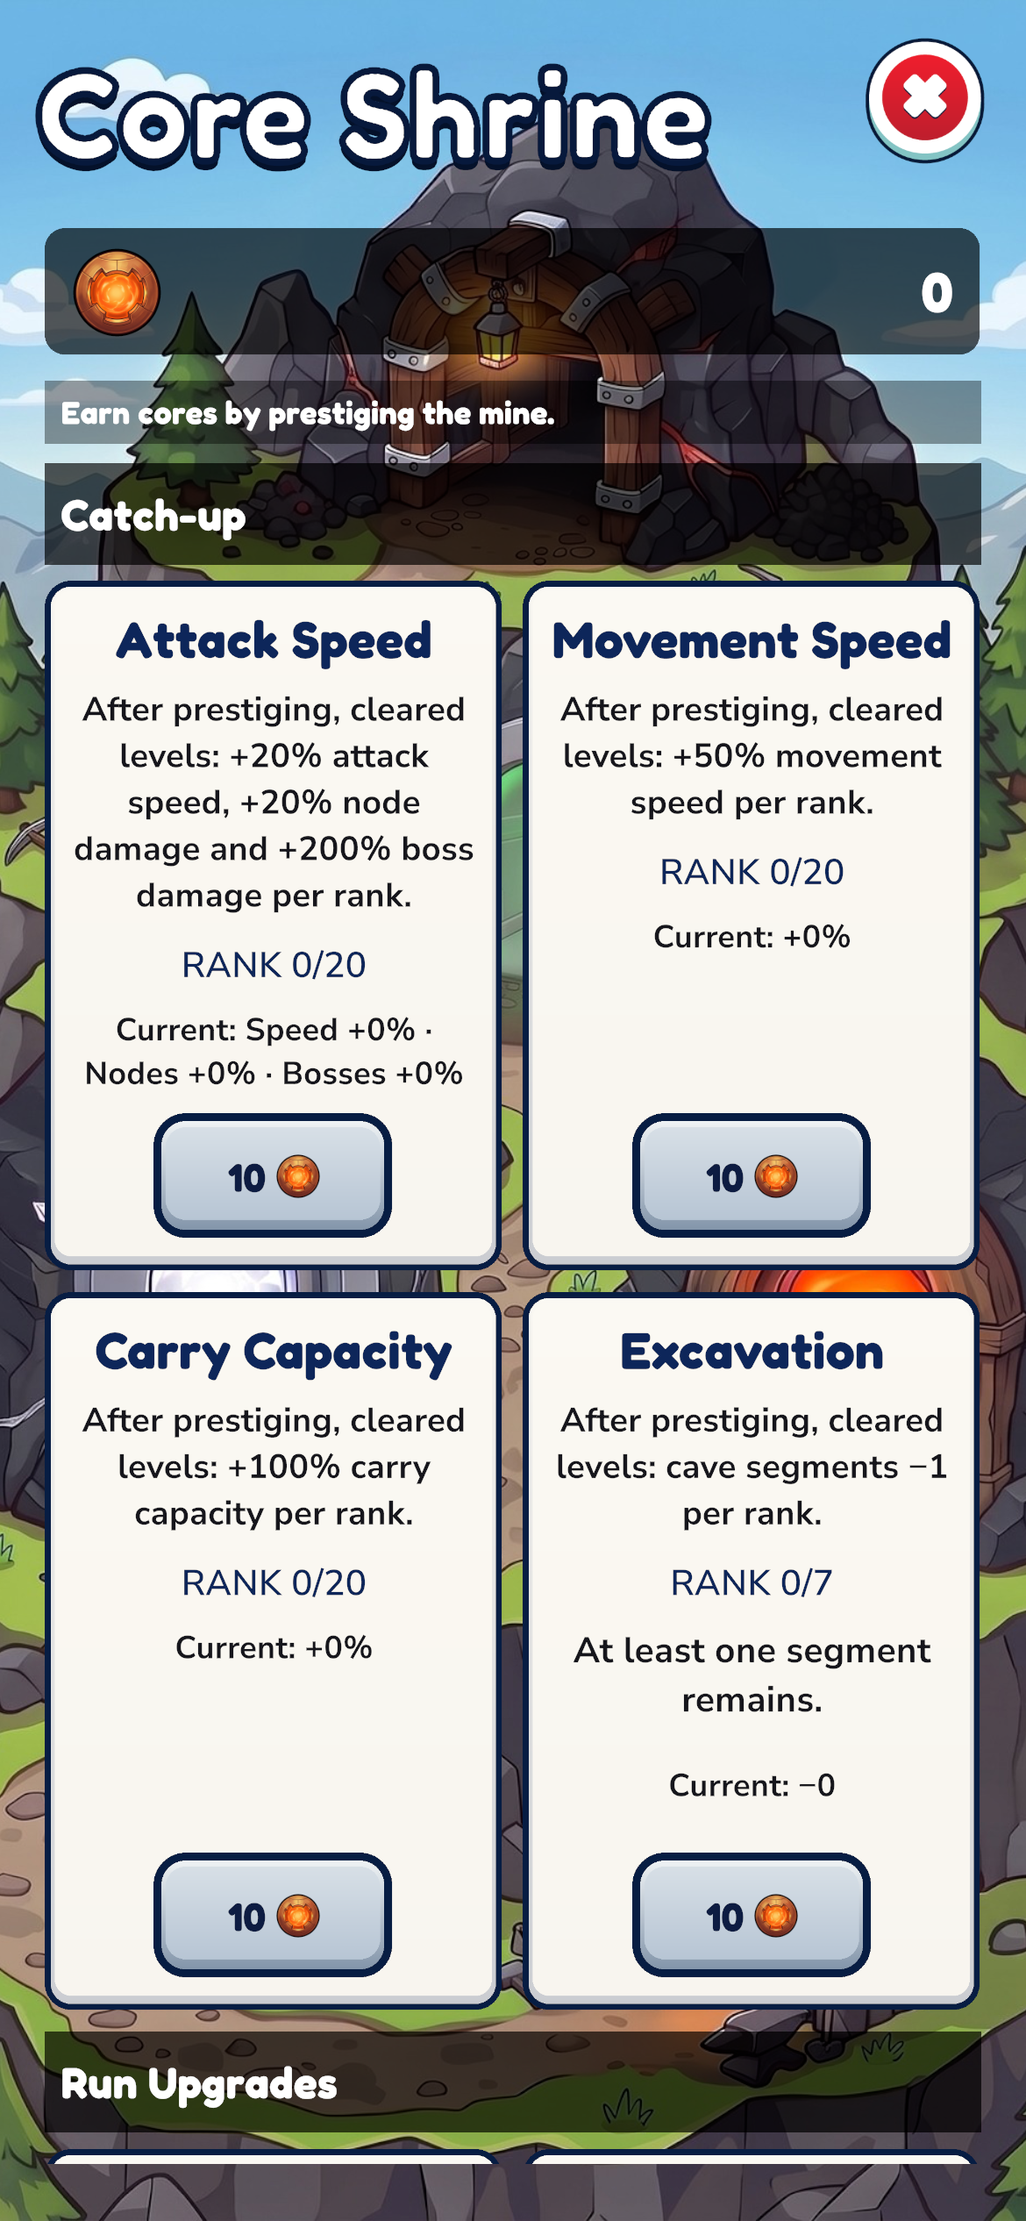
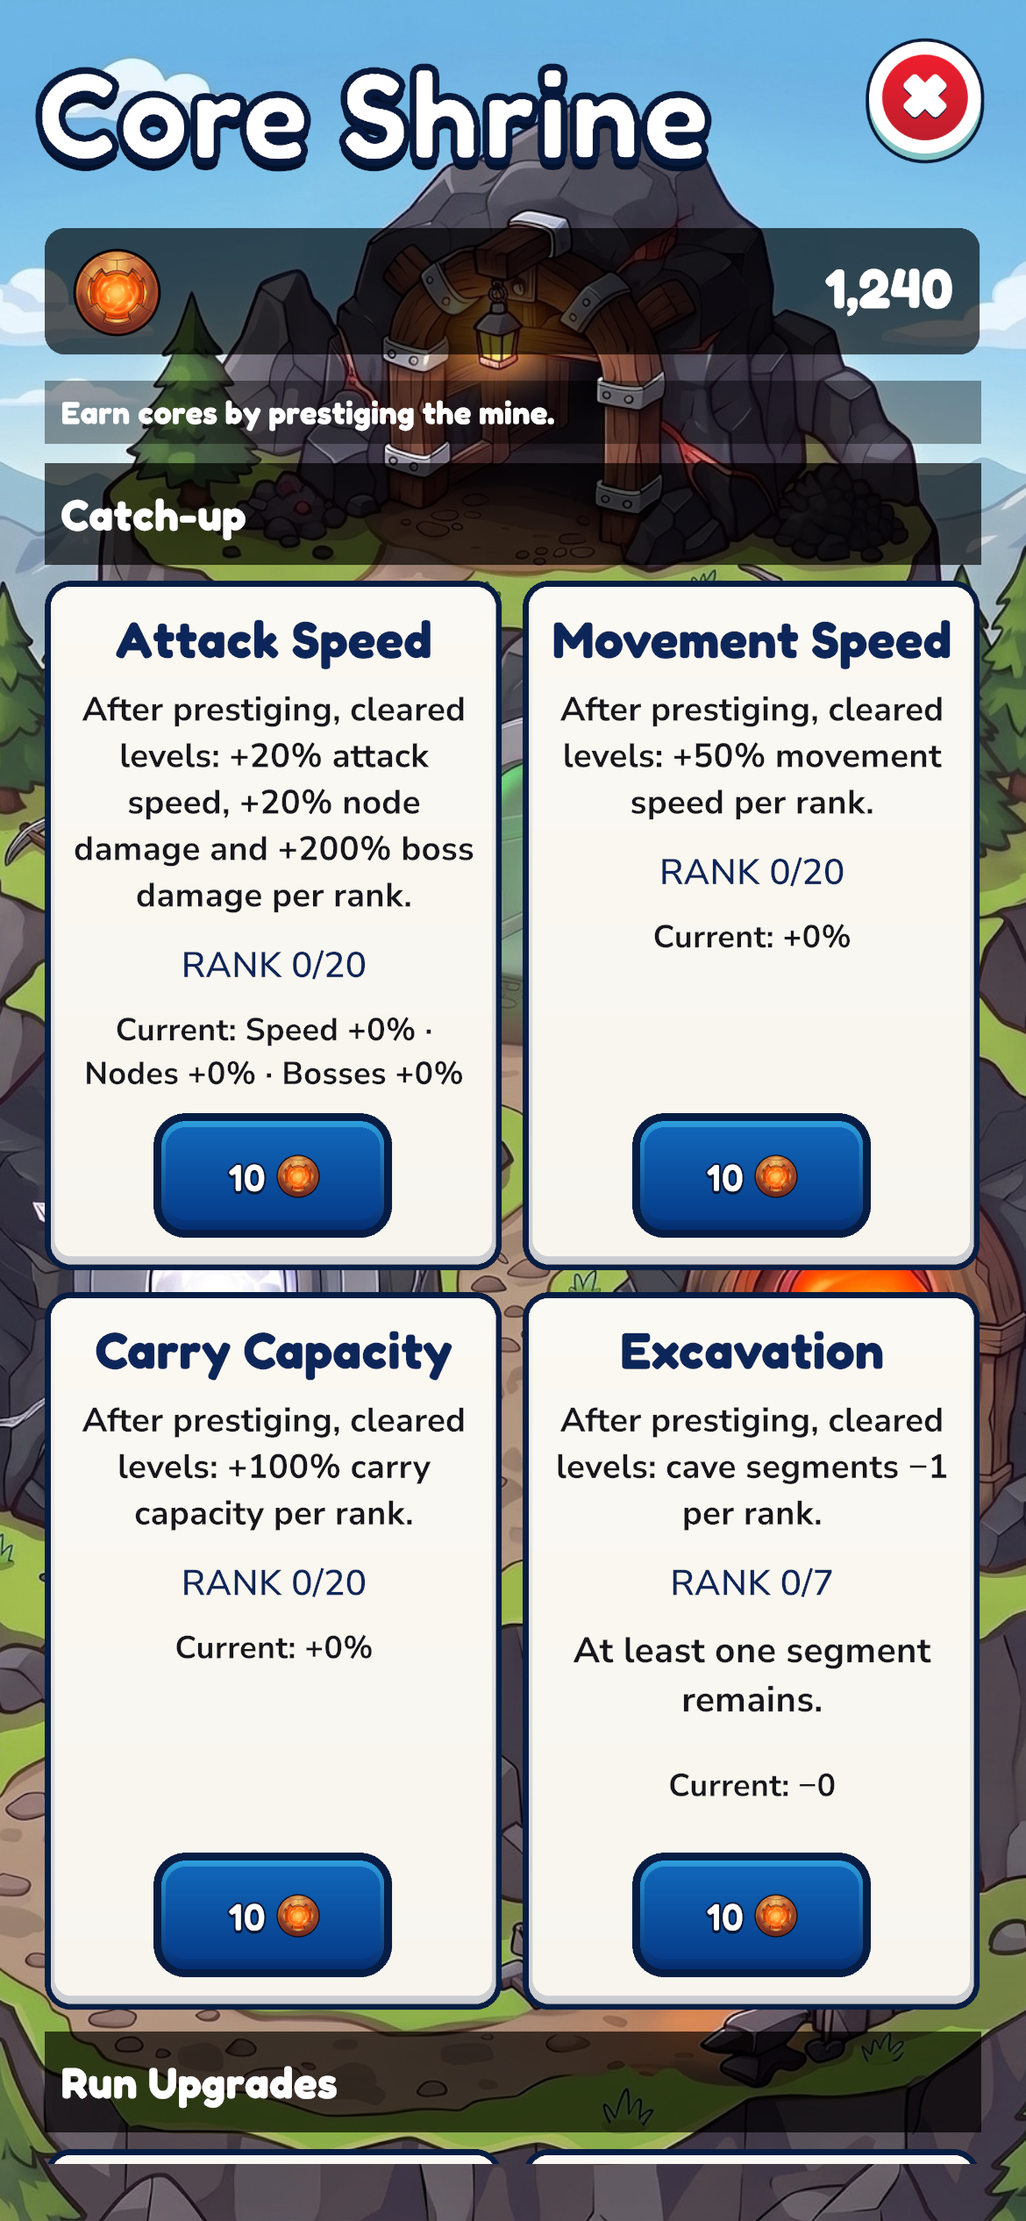
Refresh gameplay screenshots and expand Privacy and Terms

diff --git a/privacy.html b/privacy.html
@@ -2,21 +2,45 @@
 <html lang="en"><head><meta charset="utf-8"><meta name="viewport" content="width=device-width, initial-scale=1"><meta name="description" content="Privacy information for Mining Kingdom Idle."><link rel="stylesheet" href="style.css"><title>Privacy policy — Mining Kingdom Idle</title></head><body>
 <header class="site-header wrap"><a class="brand" href="index.html">Mining Kingdom Idle</a><nav aria-label="Main navigation"><a href="index.html">Game</a><a href="support.html">Support</a><a href="privacy.html" aria-current="page">Privacy</a><a href="terms.html">Terms</a></nav></header>
 <main id="main" class="document wrap">
-<h1>Privacy policy</h1><p class="page-meta">Updated 16 October 2026 · rsvngames<br>Contact: <a href="mailto:support@miningkingdomidle.com">support@miningkingdomidle.com</a></p>
-<p>This page explains the data used by Mining Kingdom Idle and this website.</p>
-<h2>Saved progress</h2><p>The game stores your progress, settings and purchase records on your device.</p>
-<p>Cloud backup is off by default. If you turn it on, your save is stored through Google Play Games on Android or GameKit/iCloud on Apple devices. There is no separate publisher login. Android and Apple saves do not transfer between platforms.</p>
-<p>Turning cloud backup off does not delete existing copies. The game can request deletion through your platform, though another device or a pending upload may create a copy again. Choosing another save replaces your existing progress. Saves are not combined.</p>
-<h2>Purchases</h2><p>Apple or Google handles payment. The game and Unity IAP use receipts, transaction identifiers and purchase status to deliver purchases and restore permanent benefits. We do not receive full payment card details.</p>
-<h2>Ads and game services</h2><p>Rewarded videos use Google Mobile Ads. Google’s User Messaging Platform handles applicable consent messages and privacy options. These services can receive device or advertising identifiers, IP-derived approximate location, ad interactions and diagnostics.</p>
-<p>Ad behavior depends on the service configuration, privacy choices and platform permissions. When Google makes privacy options available, use <strong>Ad privacy choices</strong> in the game’s Settings.</p>
+<h1>Privacy policy</h1>
+<p class="page-meta">Updated 16 October 2026<br>Privacy contact: Developer, rsvngames — <a href="mailto:support@miningkingdomidle.com">support@miningkingdomidle.com</a></p>
+<h2>Saved progress and cloud backup</h2>
+<p>The game stores your progress, settings and purchase records on your device so you can continue playing and retain purchased benefits.</p>
+<p>Cloud backup is optional and off by default. If you enable it, your save is stored through Google Play Games on Android or GameKit/iCloud on Apple devices. There is no separate rsvngames account. Android and Apple saves do not transfer between platforms.</p>
+<p>Choosing another save replaces your existing progress. Saves are not combined, and a cloud copy may be behind your latest local progress.</p>
+<p>Turning cloud backup off does not delete existing cloud copies. The game can request deletion through your platform, although another device or a pending upload may create a copy again.</p>
+<h2>Purchases</h2>
+<p>Apple or Google processes payments. The game and Unity IAP use purchase receipts, transaction identifiers and purchase status to deliver purchases, record ownership and restore eligible permanent benefits.</p>
+<p>We do not receive your full payment card details. The relevant store handles payment information under its own policies.</p>
+<h2>Ads and game services</h2>
+<p>Rewarded videos use Google Mobile Ads. Google’s User Messaging Platform handles applicable consent messages and advertising privacy choices.</p>
+<p>These services can receive device information, advertising identifiers, IP-derived approximate location, ad interactions and diagnostics to provide and measure advertising. The information processed depends on the service configuration, your privacy choices and platform permissions.</p>
+<p>When Google makes privacy options available, you can review your choices through <strong>Ad privacy choices</strong> in the game’s Settings.</p>
+<p>When Remove Ads is active, the game does not start new rewarded-ad requests. This does not delete information already held by providers or disable the other processing described in this policy.</p>
 <p>Unity supplies the game engine and purchase integration. Its services can process installation, device, session and transaction information. Optional Unity Analytics collection and leaderboard score sharing are disabled in this version.</p>
-<h2>Website and support</h2><p>GitHub Pages hosts this website and logs visitor IP addresses for security. The game also contacts this site to check connectivity before rewarded videos. The site has no tracking scripts, sign-up form or automatic video embeds.</p>
-<p>If you email support, your address, message and attachments are handled through the support mailbox to answer your request. Do not send passwords, payment card details or private save files.</p>
-<h2>Retention and requests</h2><p>Local saves remain until removed or replaced through the game or operating system. A gameplay reset keeps permanent purchase ownership and daily-use records. It does not delete your cloud backup. Stores, cloud and SDK providers apply their own storage and retention policies.</p>
-<p>Contact <a href="mailto:support@miningkingdomidle.com">support@miningkingdomidle.com</a> with privacy questions or requests about your information. Depending on your location, rights may include access, correction, deletion or objection. Requests for provider-held records may require that provider’s tools and identifying information.</p>
-<h2>Service policies</h2><ul><li><a href="https://www.apple.com/legal/privacy/">Apple</a></li><li><a href="https://policies.google.com/privacy">Google</a></li><li><a href="https://unity.com/legal/game-player-and-app-user-privacy-policy">Unity</a></li><li><a href="https://docs.github.com/en/site-policy/privacy-policies/github-general-privacy-statement">GitHub</a></li></ul>
-<p>We will update this page if the game’s services or data handling change.</p>
+<h2>Website and support</h2>
+<p>GitHub Pages hosts this website and logs visitor IP addresses for security. The game also contacts this website to check connectivity before showing a rewarded video.</p>
+<p>The website has no tracking scripts, registration form or automatic video embeds.</p>
+<p>If you contact support, your email address, message and any attachments are processed through the email services used to receive and answer your request. We use this information to investigate the issue and respond.</p>
+<p>Please do not send passwords, login codes, payment card details or private save files.</p>
+<h2>Service providers and processing locations</h2>
+<p>The providers described above process information under their own privacy policies. Depending on the service, information may be processed outside your province or country and may be subject to the laws of that location.</p>
+<p>You can read their policies here:</p>
+<ul><li><a href="https://www.apple.com/legal/privacy/">Apple</a></li><li><a href="https://policies.google.com/privacy">Google</a></li><li><a href="https://unity.com/legal/game-player-and-app-user-privacy-policy">Unity</a></li><li><a href="https://docs.github.com/en/site-policy/privacy-policies/github-general-privacy-statement">GitHub</a></li></ul>
+<h2>Retention</h2>
+<p>Local saves remain until removed or replaced through the game or operating system. A gameplay reset keeps permanent purchase ownership and daily-use records. It does not delete your cloud backup.</p>
+<p>We retain information under our control for as long as reasonably needed for the purposes described in this policy, including handling support requests, resolving related issues and meeting legal obligations. When that information is no longer needed, we delete it or remove identifying details, subject to applicable retention requirements.</p>
+<p>Stores and other providers may retain records they control independently under their own policies and legal obligations.</p>
+<h2>Your choices and privacy requests</h2>
+<p>The cloud-backup and advertising controls described above let you manage those optional features.</p>
+<p>You can contact <a href="mailto:support@miningkingdomidle.com">support@miningkingdomidle.com</a> to ask about information under our control, request access or correction, or raise a privacy concern. Depending on applicable law, you may also request deletion, withdraw consent or exercise other privacy rights.</p>
+<p>Please describe your request clearly. We may ask for information reasonably needed to confirm your identity and locate the relevant records. We will respond within the time required by applicable law and explain any applicable limitations or exceptions.</p>
+<p>Some requests concerning information independently controlled by a store or service provider may require that provider’s tools or request process.</p>
+<p>If you are a parent or guardian with a concern about a child’s personal information in connection with the game, contact us so we can review and address the concern.</p>
+<p>You may also raise concerns with the relevant privacy regulator. In British Columbia, this includes the <a href="https://oipc.bc.ca/for-the-public/how-do-i-make-a-complaint/">Office of the Information and Privacy Commissioner for BC</a>.</p>
+<h2>Changes to this policy</h2>
+<p>We may update this policy when the game’s services or information-handling practices change. The revised policy will appear on this page with an updated date.</p>
+<p>Where required by law, we will provide additional notice and obtain consent before introducing new collection, use or disclosure of personal information.</p>
 </main>
 <footer class="site-footer wrap"><nav aria-label="Footer"><a href="support.html">Support</a><a href="privacy.html">Privacy</a><a href="terms.html">Terms</a></nav><p>rsvngames · <a href="mailto:support@miningkingdomidle.com">support@miningkingdomidle.com</a></p></footer>
 </body></html>

diff --git a/terms.html b/terms.html
@@ -2,12 +2,48 @@
 <html lang="en"><head><meta charset="utf-8"><meta name="viewport" content="width=device-width, initial-scale=1"><meta name="description" content="Terms for Mining Kingdom Idle."><link rel="stylesheet" href="style.css"><title>Terms of use — Mining Kingdom Idle</title></head><body>
 <header class="site-header wrap"><a class="brand" href="index.html">Mining Kingdom Idle</a><nav aria-label="Main navigation"><a href="index.html">Game</a><a href="support.html">Support</a><a href="privacy.html">Privacy</a><a href="terms.html" aria-current="page">Terms</a></nav></header>
 <main id="main" class="document wrap">
-<h1>Terms of use</h1><p class="page-meta">Updated 16 October 2026 · rsvngames<br>Contact: <a href="mailto:support@miningkingdomidle.com">support@miningkingdomidle.com</a></p>
-<h2>Using the game</h2><p>Mining Kingdom Idle is provided by rsvngames for personal entertainment. The licence and store terms that apply to your copy remain in effect. On Apple platforms, this includes <a href="https://www.apple.com/legal/internet-services/itunes/dev/stdeula/">Apple’s standard app licence</a> where applicable.</p>
-<h2>Progress and cloud saves</h2><p>Progress is saved locally. Optional cloud backup uses Apple or Google services and may be behind your latest progress. Apple and Android saves are separate. Selecting a different saved game replaces your existing progress. Saves are not combined.</p>
-<h2>Purchases and refunds</h2><p>Optional purchases include permanent benefits and consumable diamond packs. Check the store’s price, currency and product description before buying.</p><p>Restore purchases restores eligible permanent benefits. It does not refill spent consumables. Payment and refund requests follow the relevant store’s process and applicable consumer law.</p>
-<h2>Ads and availability</h2><p>Rewarded videos are optional. Rewards require the ad provider’s completion confirmation and return to the game. Game features and online services may change or become unavailable.</p>
-<h2>Fair use and support</h2><p>Do not abuse purchase transactions or interfere with the game or its platform services. For help, visit <a href="support.html">Support</a>. The <a href="privacy.html">Privacy policy</a> explains data handling.</p><p>These terms do not remove mandatory consumer rights. Updates will be posted on this page with a revised date.</p>
+<h1>Terms of use</h1>
+<p class="page-meta">Updated 16 October 2026 · rsvngames<br>Contact: <a href="mailto:support@miningkingdomidle.com">support@miningkingdomidle.com</a></p>
+<h2>Using the game</h2>
+<p>Mining Kingdom Idle is provided by an independent developer based in British Columbia, Canada, using the publishing name rsvngames. References to “we,” “us” and “our” mean that developer.</p>
+<p>These terms govern your use of Mining Kingdom Idle. Applicable store terms and licences also remain in effect. On Apple platforms, these include <a href="https://www.apple.com/legal/internet-services/itunes/dev/stdeula/">Apple’s standard app licence</a> where applicable.</p>
+<h2>Intellectual property and licence</h2>
+<p>Rights in the game’s software, artwork, audio and other content remain with its developer or the relevant third-party rights holders.</p>
+<p>You receive a limited, non-exclusive licence to use the game for personal entertainment, subject to these terms and applicable store rules. Downloading the game or making an in-game purchase does not transfer ownership of its software or content.</p>
+<p>Third-party components remain subject to their own licences.</p>
+<h2>Progress and cloud saves</h2>
+<p>Progress is saved locally. Optional cloud backup uses Apple or Google services and may be behind your latest local progress. Apple and Android saves are separate.</p>
+<p>Selecting another saved game replaces your existing progress. Saves are not combined. Review the available information before choosing a save, and allow synchronization to finish when moving between devices.</p>
+<p>Cloud backup depends on your platform account, connectivity and the availability of the platform’s services.</p>
+<h2>Purchases and refunds</h2>
+<p>The game offers optional purchases, including permanent benefits such as Remove Ads and Double Resources, and consumable diamond packs.</p>
+<p>Before buying, check the store’s displayed price, currency and product description. Apple or Google processes the purchase under the applicable store terms.</p>
+<p>Restore purchases restores eligible permanent benefits through the relevant store account. It does not refill spent diamonds or restore a progress backup.</p>
+<p>Payment disputes and refund requests follow the relevant store’s process and applicable consumer law.</p>
+<h2>Rewarded videos</h2>
+<p>Rewarded videos are optional and depend on advertising availability and connectivity.</p>
+<p>When a video is shown, the reward requires the ad provider’s completion confirmation and return to the game. Closing a video before confirmed completion does not earn the reward.</p>
+<p>Purchased ad-free benefits apply as described in the game and the relevant product description. Other reward conditions and usage limits still apply.</p>
+<h2>Acceptable use</h2>
+<p>You must not:</p>
+<ul><li>Obtain purchases or rewards fraudulently or bypass purchase verification.</li><li>Tamper with purchase or ad-reward verification.</li><li>Access systems or information without authorisation.</li><li>Unlawfully interfere with the game or its platform services.</li><li>Redistribute unauthorised copies of the game.</li><li>Reverse-engineer its software except where permitted by applicable law or the licences covering third-party components.</li></ul>
+<h2>Availability and limitation of liability</h2>
+<p>The game may receive updates that change its features, balance or technical requirements. Online features depend on connectivity and third-party services and may sometimes be unavailable.</p>
+<p>To the extent permitted by applicable law, the game is provided “as is” and “as available,” without warranties other than those required by law. We do not guarantee uninterrupted or error-free operation.</p>
+<p>To the extent permitted by applicable law, we are not liable for indirect or consequential losses arising from your use of, or inability to use, the game.</p>
+<p>Nothing in these terms excludes or limits liability, consumer rights or remedies that cannot lawfully be excluded or limited.</p>
+<h2>Stopping use</h2>
+<p>You can stop using the game at any time.</p>
+<p>Uninstalling the game does not automatically delete cloud saves or records held by platform and service providers, and does not request a refund. Use the available game and platform controls to manage cloud data.</p>
+<h2>Governing law</h2>
+<p>Subject to applicable mandatory law, these terms are governed by the laws of British Columbia and the federal laws of Canada applicable there.</p>
+<p>This choice of law does not remove mandatory consumer protections or rights to bring proceedings that apply where you live.</p>
+<h2>Changes to these terms</h2>
+<p>We may update these terms as the game, its services or applicable legal requirements change. Revised terms will be published on this page with an updated effective date.</p>
+<p>Where required by law, we will provide notice and obtain your agreement before applying changes.</p>
+<h2>Support and privacy</h2>
+<p>For help with the game, visit <a href="support.html">Support</a> or email <a href="mailto:support@miningkingdomidle.com">support@miningkingdomidle.com</a>.</p>
+<p>Our <a href="privacy.html">Privacy policy</a> explains how information is handled.</p>
 </main>
 <footer class="site-footer wrap"><nav aria-label="Footer"><a href="support.html">Support</a><a href="privacy.html">Privacy</a><a href="terms.html">Terms</a></nav><p>rsvngames · <a href="mailto:support@miningkingdomidle.com">support@miningkingdomidle.com</a></p></footer>
 </body></html>

diff --git a/index.html b/index.html
@@ -25,15 +25,15 @@
   <div class="showcase wrap" id="gameplay">
     <section class="mining-section paper">
       <h2>Mine deeper!</h2>
-      <div class="mining-shots shot-row"><figure class="shot"><a href="assets/mine-copper.png"><img src="assets/mine-copper.png" alt="Copper mining at level 1" width="390" height="844" loading="lazy"></a></figure><figure class="shot"><a href="assets/mine-silver.png"><img src="assets/mine-silver.png" alt="Silver mining in a large cave filled with nodes" width="1170" height="2532" loading="lazy"></a></figure><figure class="shot"><a href="assets/mine-dragonite.png"><img src="assets/mine-dragonite.png" alt="Dragonite mining with dense nodes and several augment effects" width="1170" height="2532" loading="lazy"></a></figure></div>
+      <div class="mining-shots shot-row"><figure class="shot"><a href="assets/mine-copper.png"><img src="assets/mine-copper.png" alt="Copper mining at level 1" width="1170" height="2532" loading="lazy"></a></figure><figure class="shot"><a href="assets/mine-silver.png"><img src="assets/mine-silver.png" alt="Silver mining in a large cave filled with nodes" width="1170" height="2532" loading="lazy"></a></figure><figure class="shot"><a href="assets/mine-dragonite.png"><img src="assets/mine-dragonite.png" alt="Dragonite mining with dense nodes and several augment effects" width="1170" height="2532" loading="lazy"></a></figure></div>
     </section>
     <div class="gear-sections">
       <section class="paper gear-section">
-        <p class="section-label">Forge</p><h2>Craft new gear!</h2>
+        <h2>Craft new gear!</h2>
         <figure class="shot"><a href="assets/forge-gold-reinforced.png"><img src="assets/forge-gold-reinforced.png" alt="The Forge with Gold selected on the Reinforced Gear tab" width="1170" height="2532" loading="lazy"></a></figure>
       </section>
       <section class="paper gear-section">
-        <p class="section-label">Equipment</p><h2>Collect armor and get stronger!</h2>
+        <h2>Collect armor and get stronger!</h2>
         <figure class="shot"><a href="assets/equipment-silver-reinforced.png"><img src="assets/equipment-silver-reinforced.png" alt="Equipment screen with the miner wearing a full set of Reinforced Silver gear" width="1170" height="2532" loading="lazy"></a></figure>
       </section>
     </div>
